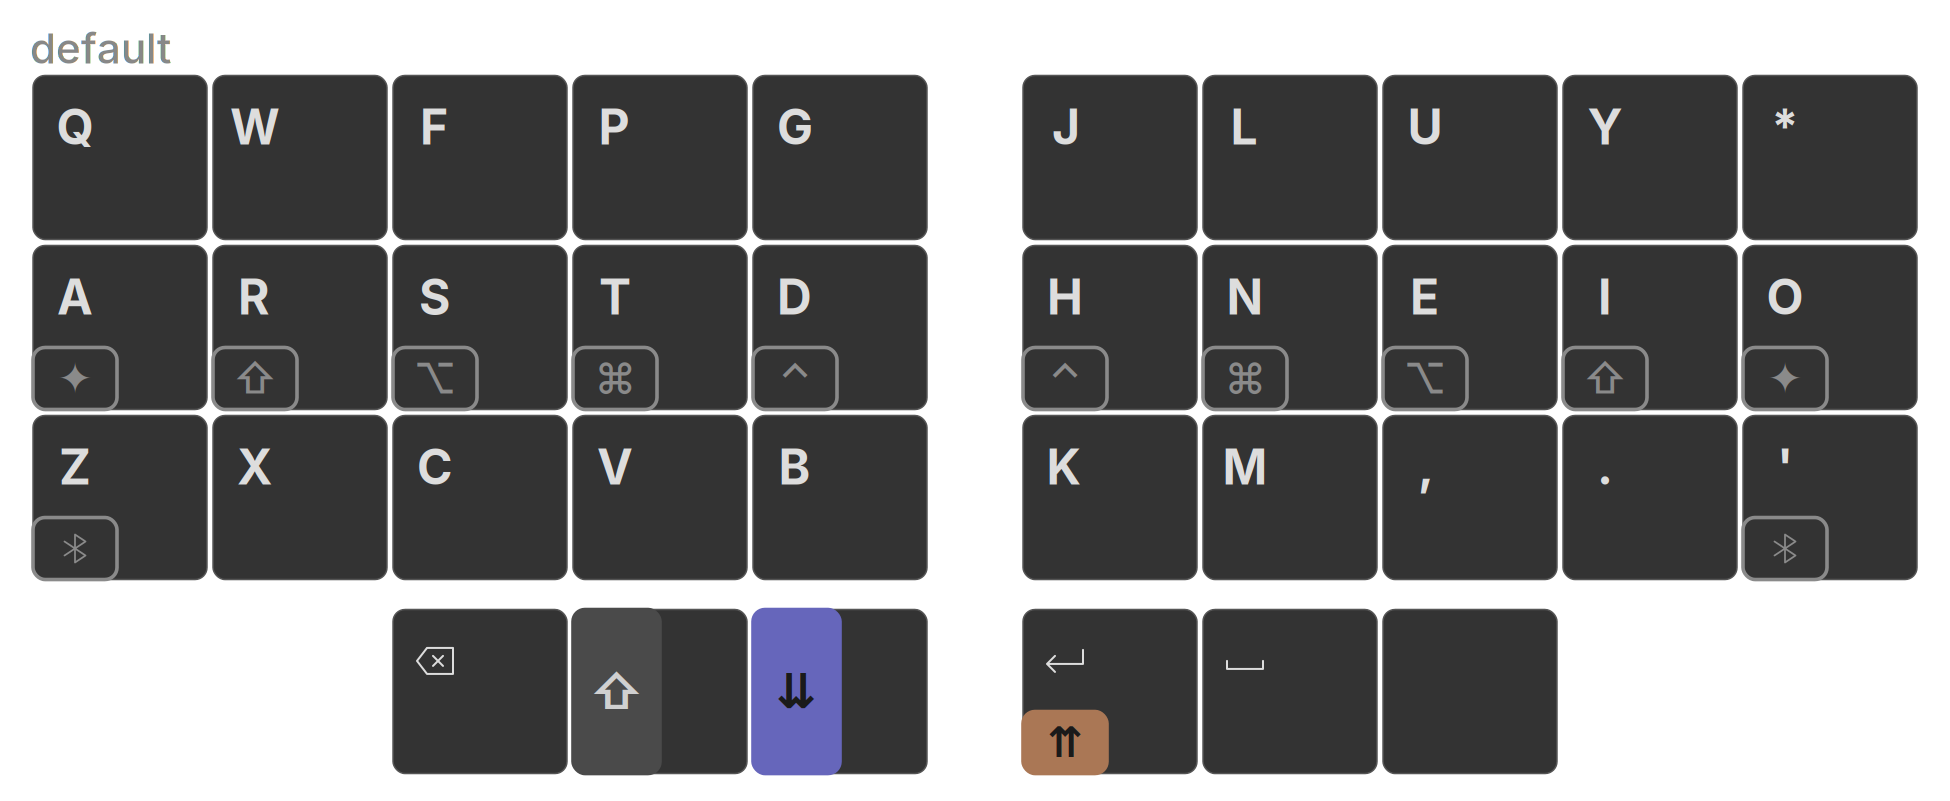
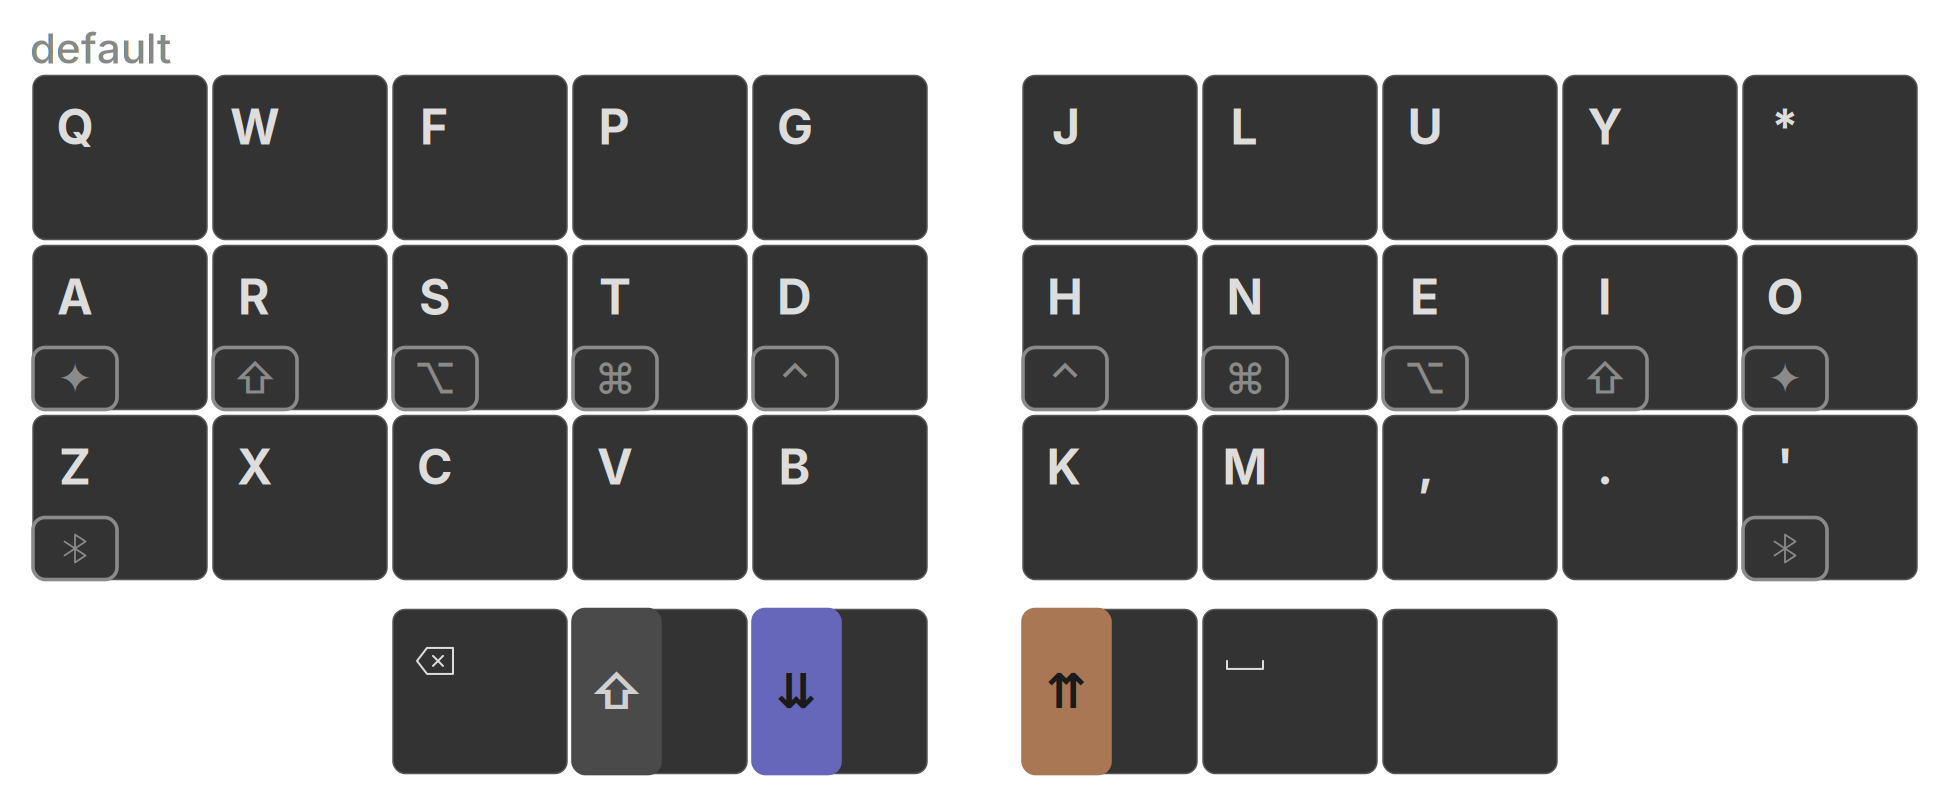
Move Enter to an M+, combo and make rse a one-shot thumb (#27)
* Move Enter to an M+, combo and make rse a one-shot thumb.

Tapping the inner-right thumb one-shots raise; holding it is a
momentary layer shift, matching lwr on the other hand. Enter is a
base-layer chord on M and comma.

* Put Enter on raise at the inner left thumb.

One-shot or held rse plus that key types Enter, in addition to the
existing M+, combo.

* Move Escape to raise at the outer left thumb.

The C+V combo is gone. Esc is now rse plus the leftmost thumb, and
it remains on lwr as a non-raise path.

---------

Changed region(s): [[0.5231, 0.7491, 0.5846, 0.9363]]

diff --git a/keymap_generator/tests/test_render.py b/keymap_generator/tests/test_render.py
@@ -135,13 +135,13 @@ class TestSpecsFromKeymap:
     def test_layer_change_holds_use_layer_accent(self) -> None:
         layers, _ = parse_keymap(KEYMAP)
         specs = build_stacked_specs(layers)
-        # Left inner thumb lwr/lwr (one-shot) and right inner thumb RET/rse:hp.
+        # Left inner thumb lwr/lwr and right inner thumb rse/rse (both one-shot).
         assert specs[32]["hold"] == "LWR"
         assert specs[32]["accent"] == "sym"
         assert specs[32]["flavor"] == "oneshot"
         assert specs[33]["hold"] == "RSE"
         assert specs[33]["accent"] == "nav"
-        assert specs[33]["flavor"] == "hold-preferred"
+        assert specs[33]["flavor"] == "oneshot"
         # Space carries no hold at all, so nothing can shift under it.
         assert not specs[34]["hold"]
 
@@ -156,12 +156,15 @@ class TestSpecsFromKeymap:
     def test_symbol_overlay_includes_tab_glyphs(self) -> None:
         layers, _ = parse_keymap(KEYMAP)
         specs = build_stacked_specs(layers)
-        # Right thumbs: RET with SHFT_TAB on lwr, SPC with TAB on lwr.
-        assert specs[33]["base_glyph"] == "return"
+        # Right thumbs: rse/rse with SHFT_TAB on lwr, SPC with TAB on lwr.
+        assert specs[33]["base_glyph"] is None
         assert specs[33]["sym_glyph"] == "btab"
         assert specs[34]["sym_glyph"] == "tab"
-        # BKSP sits on the outer left thumb, opposite RET.
+        # BKSP sits on the outer left thumb. Raise puts Esc there and Enter
+        # on the inner left thumb.
         assert specs[30]["base_glyph"] == "backspace"
+        assert specs[30]["num_glyph"] == "escape"
+        assert specs[32]["num_glyph"] == "return"
 
     def test_stacked_board_puts_raise_above_lower(self) -> None:
         layers, _ = parse_keymap(KEYMAP)
@@ -209,6 +212,9 @@ class TestSpecsFromKeymap:
         # Bottom row: previous/next app tab, not the Tab-key arrows.
         assert specs[25]["base_glyph"] == "app-tab-prev"
         assert specs[29]["base_glyph"] == "app-tab-next"
+        # Left thumbs: Esc on the outer, Enter on the inner.
+        assert specs[30]["base_glyph"] == "escape"
+        assert specs[32]["base_glyph"] == "return"
 
 
 class TestComboMarks:
@@ -220,19 +226,24 @@ class TestComboMarks:
         assert grid_index(3, 0) == 30
         assert grid_index(3, 5) == 35
 
-    def test_esc_combo_sits_between_c_and_v(self) -> None:
+    def test_keymap_has_only_the_enter_combo(self) -> None:
         layers, combos = parse_keymap(KEYMAP)
         default = next(layer for layer in layers if layer.name == "default")
         marks = combo_specs(combos, default)
         assert len(marks) == 1
-        mark = marks[0]
-        assert mark["glyph"] == "escape"
+        assert marks[0]["glyph"] == "return"
+
+    def test_ret_combo_sits_between_m_and_comma(self) -> None:
+        layers, combos = parse_keymap(KEYMAP)
+        default = next(layer for layer in layers if layer.name == "default")
+        marks = combo_specs(combos, default)
+        mark = next(m for m in marks if m["glyph"] == "return")
         assert mark["text"] == ""
         positions = ortho_positions()
-        c = positions[grid_index(*find_key_position(default, "C"))]
-        v = positions[grid_index(*find_key_position(default, "V"))]
-        assert mark["x"] == (c[0] + v[0] + KW) / 2
-        assert mark["y"] == (c[1] + v[1] + KH) / 2
+        m = positions[grid_index(*find_key_position(default, "M"))]
+        comma = positions[grid_index(*find_key_position(default, ","))]
+        assert mark["x"] == (m[0] + comma[0] + KW) / 2
+        assert mark["y"] == (m[1] + comma[1] + KH) / 2
 
     def test_plain_label_combo_uses_text(self) -> None:
         layers, _ = parse_keymap(KEYMAP)
@@ -455,12 +466,13 @@ class TestFontAndGlyphMetrics:
         layers, _ = parse_keymap(KEYMAP)
         svg = render_board(build_stacked_specs(layers), "stacked")
         assert 'class="oneshot symbol sym dejavu"' in svg
-        assert 'class="hold hold-preferred nav symbol dejavu"' in svg
+        assert 'class="oneshot symbol nav dejavu"' in svg
         shift_at = svg.index(">⇧</text>")
         assert "dejavu" not in svg[shift_at - 80 : shift_at]
         star_at = svg.index(">✦</text>")
         assert "dejavu" in svg[star_at - 80 : star_at]
         legend = render_legend()
+        assert 'class="hold hold-preferred nav symbol dejavu"' in legend
         assert 'class="legend-symbol dejavu"' in legend
         hyper_at = legend.index(">✦</text>")
         assert "legend-symbol dejavu" in legend[hyper_at - 80 : hyper_at]

diff --git a/dubu36-ergo/qmk/dubu36ergo/keymaps/default/keymap.c b/dubu36-ergo/qmk/dubu36ergo/keymaps/default/keymap.c
@@ -6,13 +6,13 @@ const uint16_t PROGMEM keymaps[][MATRIX_ROWS][MATRIX_COLS] = {
 KC_Q, KC_W, KC_F, KC_P, KC_G, KC_J, KC_L, KC_U, KC_Y, KC_ASTERISK,
 LT(3,KC_A), MT(MOD_LSFT,KC_R), MT(MOD_LALT,KC_S), MT(MOD_LGUI,KC_T), MT(MOD_LCTL,KC_D), MT(MOD_LCTL,KC_H), MT(MOD_LGUI,KC_N), MT(MOD_LALT,KC_E), MT(MOD_LSFT,KC_I), LT(3,KC_O),
 LT(4,KC_Z), KC_X, KC_C, KC_V, KC_B, KC_K, KC_M, KC_COMMA, KC_DOT, LT(4,KC_QUOTE),
-KC_BSPC, OSM(MOD_LSFT), OSL(2), LT(1,KC_ENT), KC_SPC, KC_NO
+KC_BSPC, OSM(MOD_LSFT), OSL(2), OSL(1), KC_SPC, KC_NO
 	),
 	[1] = LAYOUT(
 KC_NO, KC_7, KC_8, KC_9, KC_NO, KC_HOME, A(KC_LEFT), KC_UP, A(KC_RIGHT), KC_END,
 MO(3), MT(MOD_LSFT,KC_4), MT(MOD_LALT,KC_5), MT(MOD_LGUI,KC_6), KC_LCTL, MT(MOD_LCTL,G(KC_LBRC)), MT(MOD_LGUI,KC_LEFT), MT(MOD_LALT,KC_DOWN), MT(MOD_LSFT,KC_RIGHT), LT(3,G(KC_RBRC)),
 KC_0, KC_1, KC_2, KC_3, KC_NO, G(S(KC_LBRC)), G(S(A(C(KC_LBRC)))), G(S(A(C(KC_BSLASH)))), G(S(A(C(KC_RBRC)))), G(S(KC_RBRC)),
-KC_NO, KC_NO, KC_NO, KC_NO, KC_NO, KC_NO
+KC_ESC, KC_NO, KC_ENT, KC_NO, KC_NO, KC_NO
 	),
 	[2] = LAYOUT(
 KC_TILDE, KC_CIRCUMFLEX, KC_AT, KC_DOLLAR, KC_PERCENT, KC_AMPERSAND, KC_SLASH, KC_BSLASH, KC_PIPE, KC_GRAVE,
@@ -23,14 +23,14 @@ KC_NO, KC_NO, KC_NO, S(KC_TAB), KC_TAB, KC_NO
 };
 
 
-const uint16_t PROGMEM combo0[] = {KC_C, KC_V, COMBO_END};
+const uint16_t PROGMEM combo0[] = {KC_M, KC_COMMA, COMBO_END};
 const uint16_t PROGMEM combo1[] = {KC_NO, COMBO_END};
 const uint16_t PROGMEM combo2[] = {KC_NO, COMBO_END};
 const uint16_t PROGMEM combo3[] = {KC_NO, COMBO_END};
 const uint16_t PROGMEM combo4[] = {KC_NO, COMBO_END};
 
 combo_t key_combos[COMBO_COUNT] = {
-	COMBO(combo0, KC_ESC),
+	COMBO(combo0, KC_ENT),
 	COMBO(combo1, KC_NO),
 	COMBO(combo2, KC_NO),
 	COMBO(combo3, KC_NO),

diff --git a/AGENTS.md b/AGENTS.md
@@ -169,11 +169,15 @@ against the keycode the keymap holds, so a trigger on the home row has to be nam
 `MT(...)` keycode rather than the plain key press it produces.
 
 What keeps a combo from firing during ordinary typing is the choice of keys, not the timing: a
-pair the typist never rolls across cannot be triggered by accident. `C+V` was picked over the
-more comfortable home-row pairs for that reason, since Colemak puts its most frequent rolls
-there and `st` or `ne` would fire a combo constantly. `COMBO_PRIOR_IDLE_MS` in `zmk.py` is the
-fallback if a riskier pair is ever needed; it is 0 here, and left out of the generated keymap,
-because requiring idle time would stop Esc firing right after a burst of typing.
+pair the typist never rolls across cannot be triggered by accident. `M+,` (Enter) was picked
+over the more comfortable home-row pairs for that reason, since Colemak puts its most
+frequent rolls there and `st` or `ne` would fire a combo constantly. `M+,` is adjacent on
+the right bottom row and is letter-then-punctuation, not a letter roll. Esc and Enter also
+sit on the raise layer at the outer and inner left thumbs, so a one-shot or held `rse`
+reaches them without a chord. Esc stays on lwr as well.
+`COMBO_PRIOR_IDLE_MS` in `zmk.py` is the fallback if a riskier pair is ever needed; it is 0
+here, and left out of the generated keymap, because requiring idle time would stop Enter
+firing right after a burst of typing.
 
 Known gaps, deliberate:
 

diff --git a/README.md b/README.md
@@ -37,7 +37,7 @@ layer default: homerow
   Q      W      F      P      G          J      L      U      Y      *
   A      R      S      T      D          H      N      E      I      O
   Z/adj  X      C      V      B          K      M      ,      .      '/adj
-              ESC/mou:hp  _/shft  TAB/lwr:hp    RET  SPC/rse:hp  BKSP/hyp:hp
+          BKSP shft/shft lwr/lwr         rse/rse  SPC      _
 ```
 
 A cell is either a label, or a `TAP/HOLD` pair for keys that do something else when held, such as
